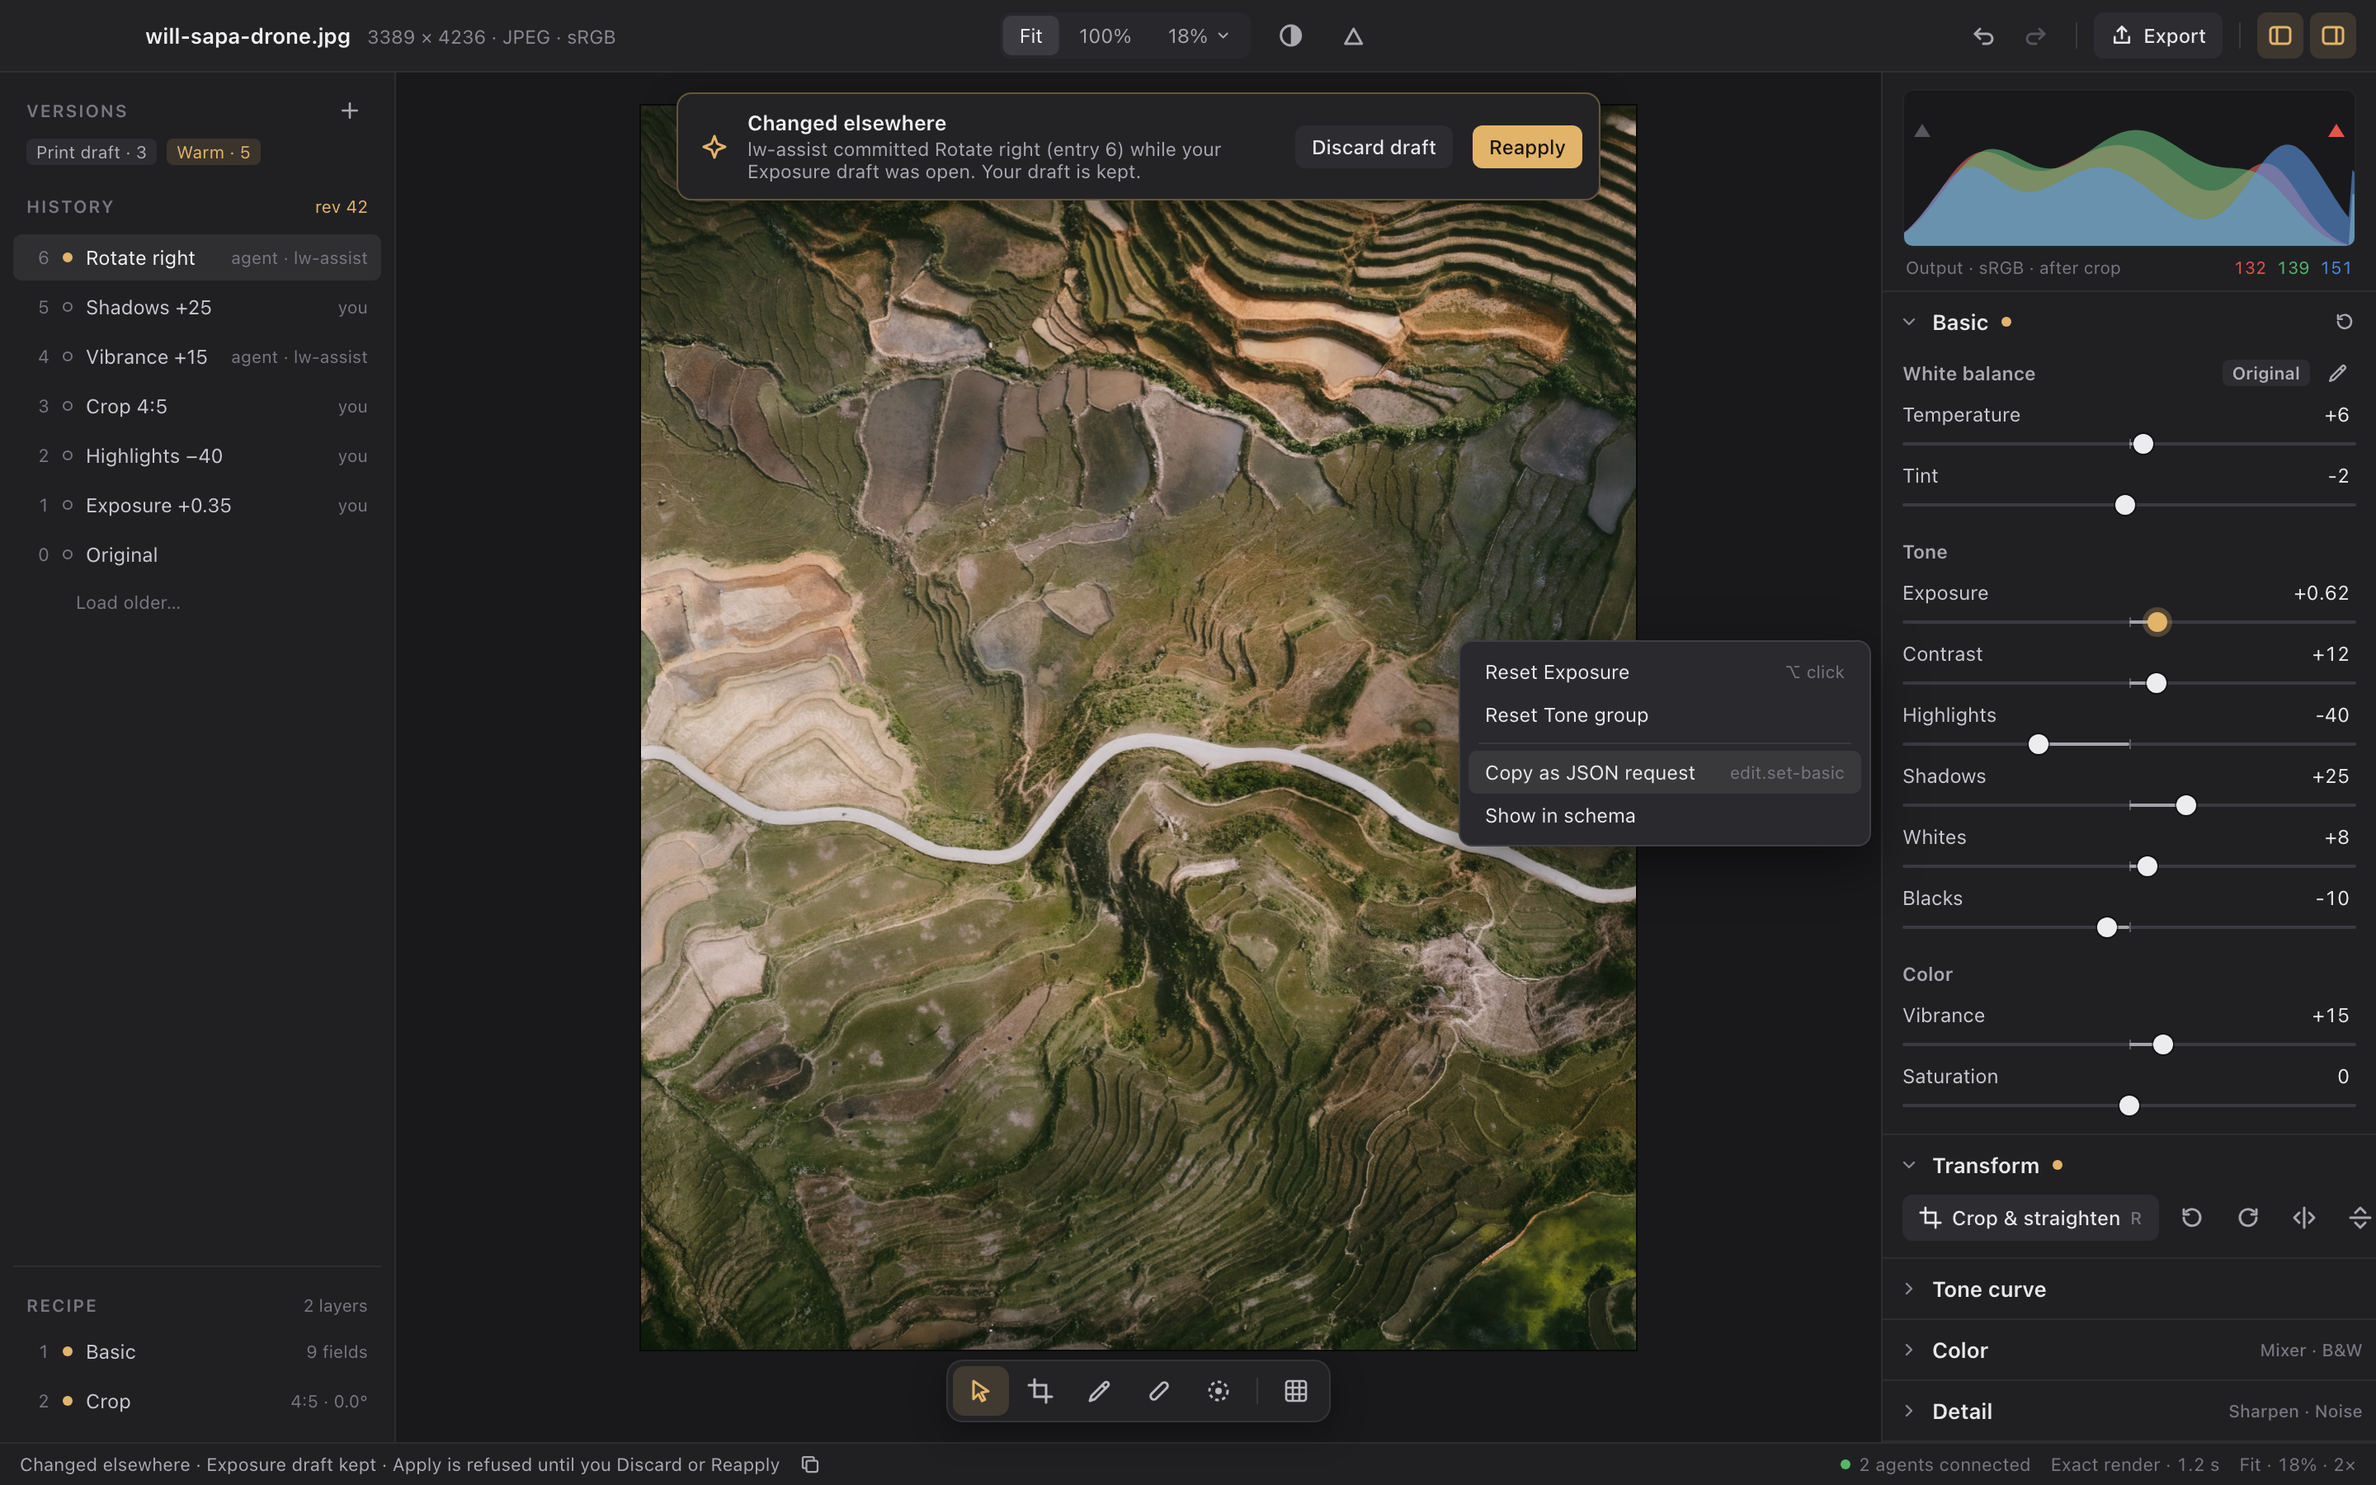
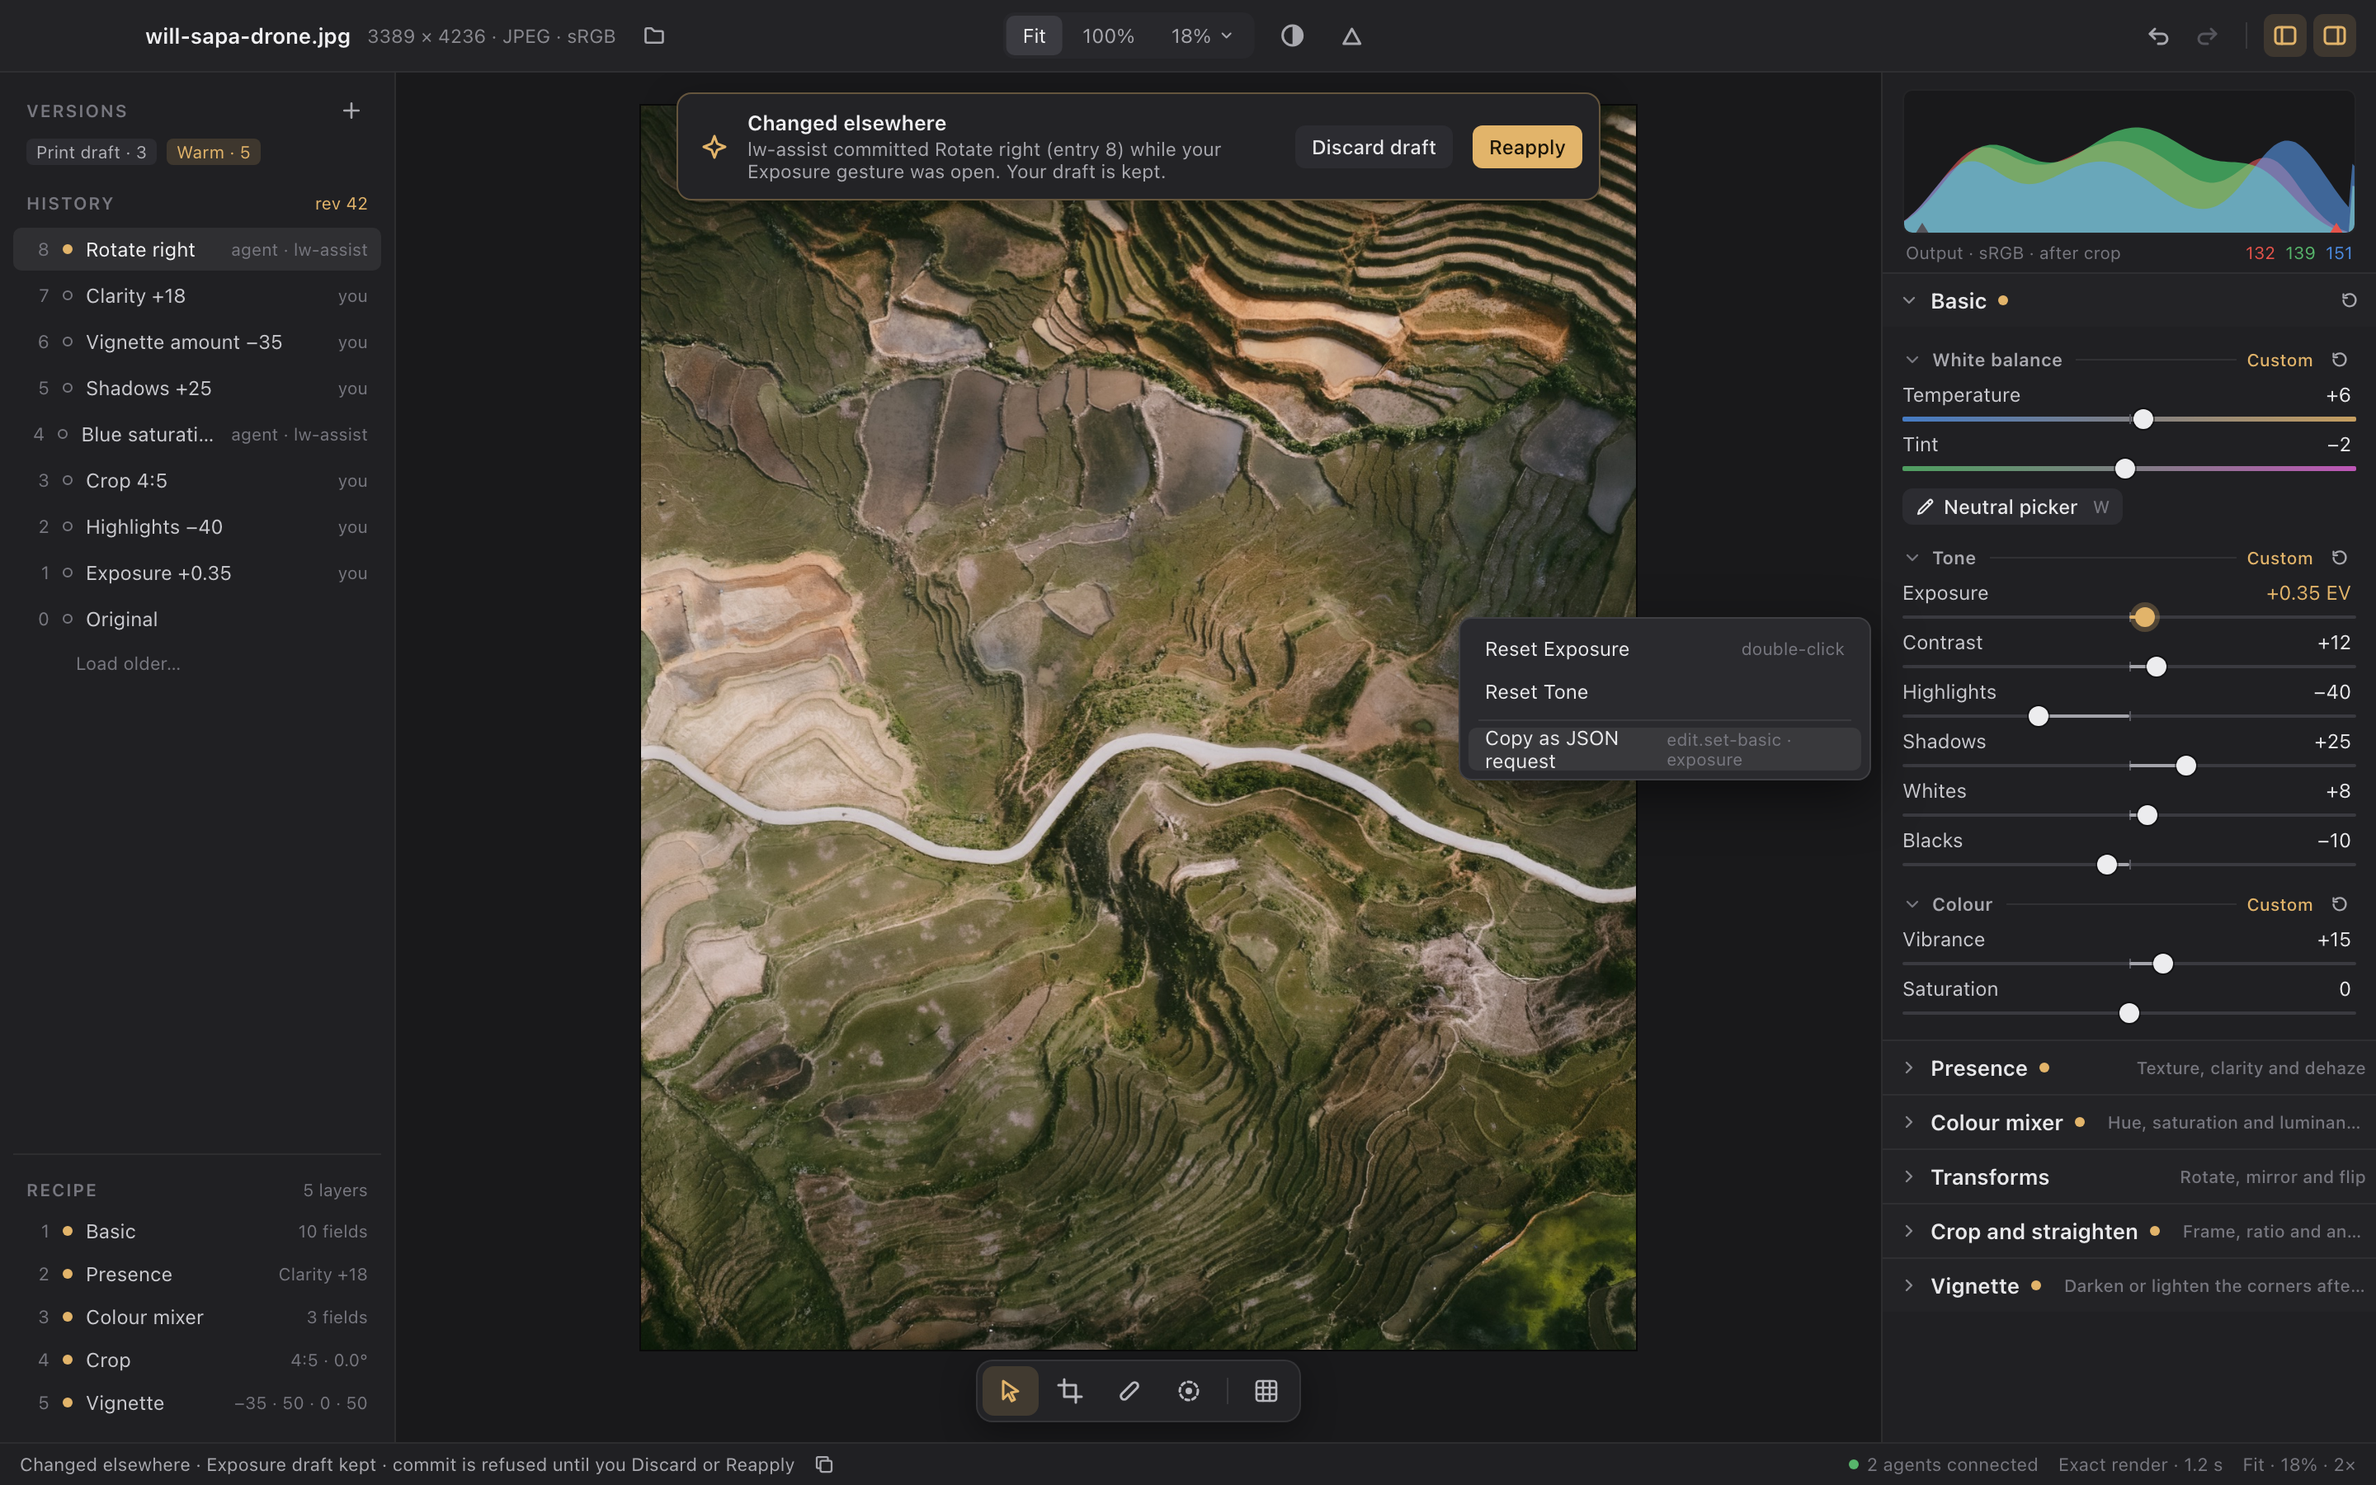
Rebase the Develop workspace mockups on the current modules and propose per-module panels
Redraw the five boards over the registry as it stands (RAW, Basic, Presence,
Colour mixer, Transforms, Crop and straighten, Vignette, Pixel under
Developer) and add a Module panels board showing every section expanded
exactly as its descriptor declares it. Add a Module panels section to the
design: the exact layout of each section, a tightened density (28 pt sliders
on a 30 pt pitch, 24 pt group rule, 32 pt module band) and a three-level
hierarchy, marked as proposals against the built panel.

diff --git a/docs/design/develop-workspace.md b/docs/design/develop-workspace.md
@@ -4,14 +4,15 @@ Status: implemented and verified on the M4 Mac for the shell, the widget library
 
 ## Mockup
 
-Rendered at 1440 × 900 logical points, 2× scale, from the design artboards. The photograph is the owner's Sapa drone JPEG from the fixtures; the slider values, history and agent are illustrative. The delivered screen includes Basic and the same regions, strip, bars and notices. Rendered evidence of the built screen comes from `cargo xtask smoke --scenario workspace`, `--scenario histogram` and `--scenario unavailable` (see [verification](#verification)).
+Rendered at 1440 × 900 logical points, 2× scale, from the design artboards, rebased on 2026-09-22 to the modules the registry holds today (RAW, Basic, Presence, Colour mixer, Transforms, Crop and straighten, Vignette, and Pixel under Developer). The photograph is the owner's Sapa drone JPEG from the fixtures; the slider values, history and agent are illustrative. The boards draw the [tightened density and hierarchy](#module-panels) proposed below, which the built screen does not have yet; everything else they show is delivered. Rendered evidence of the built screen comes from `cargo xtask smoke --scenario workspace`, `--scenario histogram` and `--scenario unavailable` (see [verification](#verification)).
 
 | Board | Shows |
 | --- | --- |
-| [Default](develop-workspace/default.png) | The workspace with Basic expanded, history and recipe on the left, mode strip under the photo |
-| [Crop draft](develop-workspace/crop-draft.png) | Crop mode: dimmed overlay, thirds, handles, the draft bar and the Crop section with the exact values it would commit |
-| [Changed elsewhere](develop-workspace/changed-elsewhere.png) | An agent commits during a slider draft: the conflict notice, actor-attributed history and a control's Copy as JSON request menu |
-| [Components](develop-workspace/components.png) | Tokens, slider states, module headers, history rows, canvas modes, notices and the command palette |
+| [Default](develop-workspace/default.png) | The workspace with Basic expanded and the five other sections collapsed under it, history and recipe on the left, mode strip under the photo |
+| [Module panels](develop-workspace/module-panels.png) | Every registered module expanded, exactly as its descriptor declares it, at the proposed density: the reference for each section's layout |
+| [Crop draft](develop-workspace/crop-draft.png) | Crop mode: dimmed overlay, thirds, handles, the draft bar and the Crop section held expanded with the exact values it would commit |
+| [Changed elsewhere](develop-workspace/changed-elsewhere.png) | An agent commits during a slider gesture: the conflict notice, actor-attributed history and a control's Copy as JSON request menu |
+| [Components](develop-workspace/components.png) | Slider states, the module and group hierarchy, history rows, canvas modes, notices and the command palette |
 
 ![Develop workspace, default state](develop-workspace/default.png)
 
@@ -68,6 +69,54 @@ Where each tool lives, what kind of thing it is and whether it exists. Kinds: **
 | Pixel proof | Developer section, listed only with `--developer` | module | Implemented (M1) | `edit.set-pixel` |
 
 A build shows only the modules its registry contains. Sections for later modules exist in the mockup to settle their place in the panel, not as placeholders in code; the desktop never lists a module that is not registered. The pixel proof tool is a test module: its descriptor is marked `developer` and the desktop lists it under a Developer section only when launched with `--developer`, so the default workspace stays a photo editor. `--disable-module ID` registers a built-in as unavailable, which is how the unavailable-provider state is demonstrated.
+
+## Module panels
+
+Status: proposed on 2026-09-22, drawn in the [Module panels board](develop-workspace/module-panels.png); the built tools panel still uses the earlier spacing. This is the exact design of each section the tools panel generates, in registry order, from the descriptors `module.list` returns today. Nothing here changes a descriptor: the controls, ranges, steps, units, zero points, rails, groups and resets are the modules' own, and the desktop's job is to lay them out at one density with one hierarchy. Two things are proposals for the modules themselves and are marked as such: `temperature` and `tint` rail hints on the two white-balance sliders, which the [UI components](ui-components.md#parameter-kinds-and-hints) vocabulary already defines and no module declares yet.
+
+### Density
+
+With Basic open, the earlier spacing left only three collapsed sections visible under it at 900 pt; the mixer's eight-slider groups made it worse. The rows tighten so that a panel of many sliders stays scannable and every section header stays on screen at the reference size.
+
+| Element | Proposed | Today | Rule |
+| --- | --- | --- | --- |
+| Slider row | 28 pt on a 30 pt pitch: 14 pt label line, 2 pt gap, 12 pt rail line | 33 pt on a 37 pt pitch | The value sits on the label line, right-aligned in a 48 pt box, unit once; the rail line holds the 2 pt rail, the 6 pt zero tick and the 12 pt thumb |
+| Sub-group header | 24 pt, 4 pt above | 26 pt | 11 pt semibold secondary text, then a hairline rule to the Original or Custom caption and the group's reset |
+| Module header | 32 pt | 36 pt | 13 pt semibold on the Bar surface, disclosure, title, dot, hint or reset |
+| Section body | 4 pt top, 12 pt sides, 10 pt bottom | 12 pt | Sliders are separated only by their 2 pt gap; groups by their header's 4 pt margin |
+| Button rows | 26 pt buttons, 4 pt above | 28 pt | Picker and action buttons inside a group are a row under its sliders |
+| History and recipe rows | 26 pt | 28 pt | Same text sizes; the label truncates with an ellipsis before the actor does |
+
+Resulting section heights at 300 pt wide: Basic 458 pt, Presence 164, Colour mixer 370 with Hue open (850 with all three groups open), Transforms 102, Crop and straighten 76 idle, Vignette 194, RAW 194, any collapsed section 33. With Basic open the default screen shows the histogram, Basic and all five other headers with 60 pt to spare, which is the acceptance for the density: at 1440 × 900 no registered section's header scrolls off while Basic is open.
+
+### Hierarchy
+
+Three levels, each with one visual device, so a person can tell a module from a group from a control without reading:
+
+- **Module = band.** The header row sits on the Bar surface (`#232326`) against the Panel body (`#202023`), with a 1 px border above. Expanded or collapsed, the band is the same height, so the panel does not jump. The band carries the disclosure, the title, the accent dot when the module has a non-neutral layer, and either the hint (collapsed) or the module reset (expanded). An unavailable module's band shows its reason in the clipping red and does not expand.
+- **Group = rule.** A sub-group header is 11 pt semibold secondary text followed by a hairline rule that runs to the caption. The rule is what separates groups from the sliders above them without a second background. The caption reads Original or Custom for a field-patch group, Custom in the accent, and the group's reset sits after it. A collapsed group keeps its header and drops the rule.
+- **Control = row.** Sliders, fields and button rows sit flush inside the group with no indent; the group rule above and the module band around them are the only structure. A declared gradient rail replaces the fill on its slider, so a rail's colour is always the module's declared meaning and never a state.
+
+### Sections
+
+Order and content are the registry's. "Patch" means the group's sliders are fields of one field-patch action, so each drafts on the 16 ms tick and commits once on release; "single" means each slider is the only parameter of its own action and drafts the same way; "request" means the fields are inputs to an action run by a button.
+
+| Section | Shown | Groups and controls | Resets | Modes and buttons | History label · recipe row |
+| --- | --- | --- | --- | --- | --- |
+| **RAW** (`lightwell.raw`) | RAW sources only; omitted for a JPEG, not disabled | **RAW development** (single): Exposure −5.00..+5.00 EV step 0.01; Custom temperature 2000..12000 K step 10, default 6504, unipolar from the minimum, `temperature` rail proposed; Custom tint −100..+100, `tint` rail proposed | Group and module: `reset-raw` | Neutral WB picker (`N`, `pick-raw-neutral` at the located pixel) and As shot (`use-as-shot-wb`), as one button row under the sliders. Red and blue gain are API-only actions with no control | Action title · the development's values |
+| **Basic** (`lightwell.basic`) | Always; expanded by default | **White balance** (patch): Temperature −100..+100 with the `temperature` rail proposed, Tint −100..+100 with the `tint` rail proposed. **Tone** (patch): Exposure −5.00..+5.00 EV step 0.01, Contrast, Highlights, Shadows, Whites, Blacks −100..+100. **Colour** (patch): Vibrance, Saturation −100..+100. All bipolar from 0 | Each group its own preset reset; module `reset-basic` | Neutral picker (`W`, `sample-apply` through `neutral-sample`) as a button row under the White balance sliders; it reads selected while the mode is active | `Shadows +25` · `10 fields` or the non-neutral ones |
+| **Presence** (`lightwell.presence`) | Always; collapsed | **Presence** (patch): Texture, Clarity, Dehaze −100..+100, zero 0 | Group preset; module `reset-presence` | None. A Fit preview through the proxy is marked approximate in the status bar, as [instant preview](instant-preview.md) records | `Clarity +18` · `Clarity +18` |
+| **Colour mixer** (`lightwell.mixer`) | Always; collapsed | **Hue** (patch, open): eight sliders Red, Orange, Yellow, Green, Aqua, Blue, Purple, Magenta, −100..+100, each with its declared three-stop hue rail. **Saturation** (patch, collapsed): the same eight with grey-to-colour rails. **Luminance** (patch, collapsed): the same eight with dark-to-light rails | Each group its own preset reset; module `reset-mixer` | None | `Blue saturation −6` · `3 fields` |
+| **Transforms** (`lightwell.transform`) | Always; collapsed | **Exact transforms**: four `action` controls with presets, rendered as one row of four icon buttons (rotate left, rotate right, mirror, flip) with tooltips, since each is a single exact operation and the labels are their icons | None declared | None | `Rotate right` · `Rotate right` |
+| **Crop and straighten** (`lightwell.crop`) | Always; collapsed | Idle: one Crop button (`R`) that enters the takeover mode. Drafting: **Ratio** with the seven `aspect` chips, lock and swap, and the custom width and height fields; **Angle** with the −45..+45° stepper (±0.5 nudges), its rail and the Straighten guide toggle; the exact readout (input stage, rectangle, output, what Apply commits); Cancel and Apply | Module `crop-reset` from the header | The mode strip's Crop entry and the draft bar are the same draft | `Crop 4:5` or `Crop 2.4°` · `4:5 · 0.0°` |
+| **Vignette** (`lightwell.vignette`) | Always; collapsed | **Vignette** (patch): Amount −100..+100 zero 0; Midpoint 0..100 default 50, unipolar; Roundness −100..+100 zero 0; Feather 0..100 default 50, unipolar | Group preset; module `reset-vignette` | None | `Vignette amount −35` · `−35 · 50 · 0 · 50` |
+| **Developer · Pixel** (`lightwell.pixel`) | Only with `--developer` | **Pixel proof** (request): X and Y as labelled fields in px (no rail: a coordinate has no useful one), RGB as three fields with a swatch, Pick pixel (`point-pick`, fills X and Y) and Apply pixel | None | The picker sits beside the fields it fills | `Pixel 12, 34` · `Pixel 12, 34` |
+
+Sections for modules that do not exist (Tone curve, Detail, Lens profile, Heal, Mask) are not drawn in the default board. The Module panels board shows one unavailable band and one later band under Developer only to fix how those states look.
+
+### What the built screen changes
+
+The delivered generated panel already renders every control above; the proposal changes only the theme and the layout functions in `lightwell-ui` and `view/tools_panel`: the density constants (slider, group and module heights, body padding), the module band background, the group rule, the icon-button row for `action` controls whose descriptor names an icon, and the two rail hints on the white-balance sliders once Basic and RAW declare them. No view-model, core or API change is needed, and the smoke scenarios that check the panel by state need only their placement expectations updated.
 
 ## Panels
 
